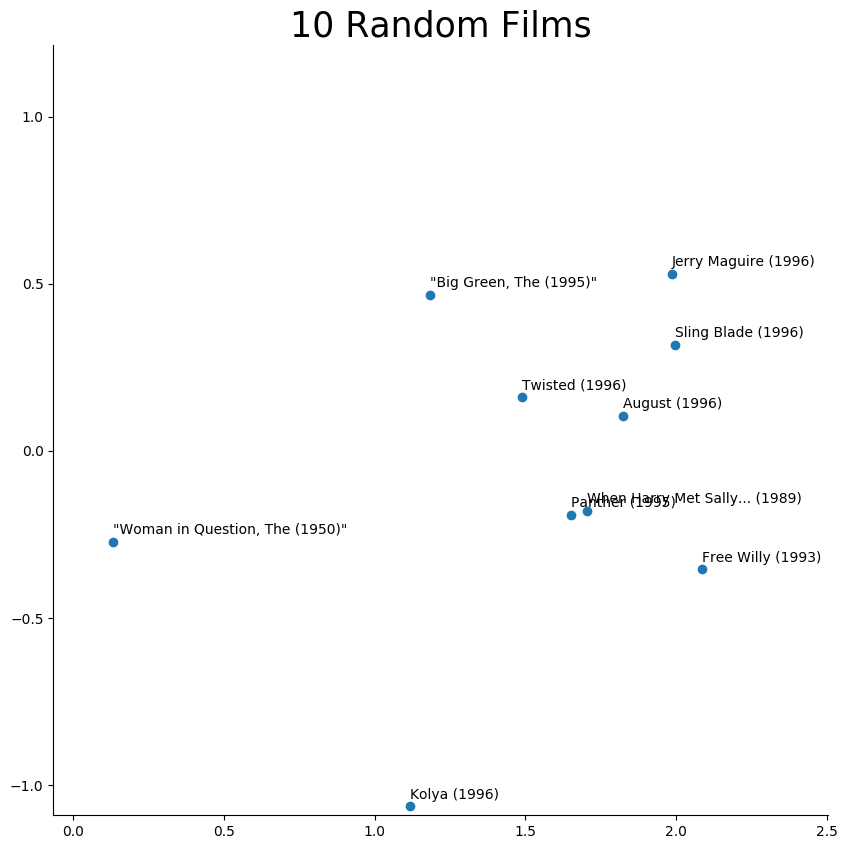
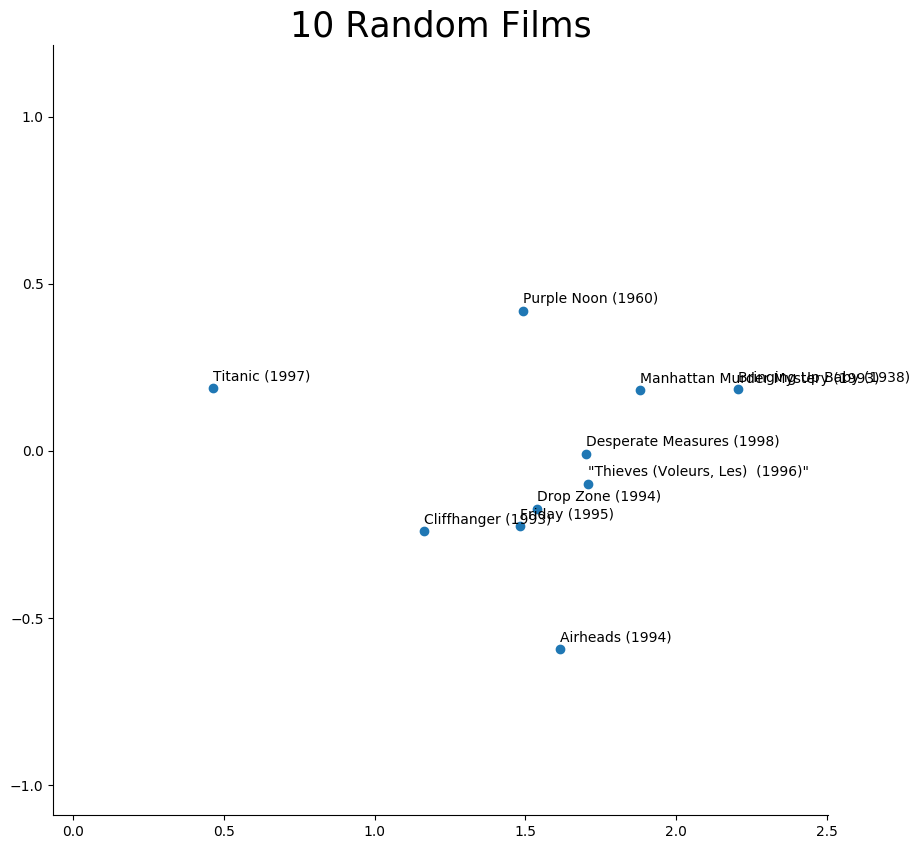
more comparison and 2d visualization

diff --git a/src/svd_visualization.py b/src/svd_visualization.py
@@ -61,6 +61,34 @@ def twoD_viz(title, movie_ids, xy_coords, rect, dpi=100, buf=0.1, annotate=True)
                transparent=True, dpi=dpi)
 
 
+def viz_comparison(title, xy_coords_lst, colors, rect, dpi=100):
+    # create plot dimensions, resolution, and axis ranges
+    plt.clf()
+    fig, ax = plt.subplots(figsize=(10., 10.), dpi=dpi)
+    ax.set_title(title, fontdict={'fontsize': 25})
+    ax.axis(rect)
+
+    # get relative sizes and ranges of drawing window
+    x_mid, y_mid = (rect[0] + rect[1]) / 2., (rect[2] + rect[3]) / 2.
+    x_interval, y_interval = (rect[1] - rect[0]), (rect[3] - rect[2])
+    
+    # draw points. use decimal colors if one group. else, colors are distinct
+    if len(xy_coords_lst) == 1:
+        ax.scatter(xy_coords_lst[0][:, 0], xy_coords_lst[0][:, 1], c=colors[0])
+    else:
+        for i, xy_coords in enumerate(xy_coords_lst):
+            ax.scatter(xy_coords[:, 0], xy_coords[:, 1], color=colors[i])
+    
+    # remove top and right axis-lines for aesthetic purposes
+    ax.spines['top'].set_visible(False)
+    ax.spines['right'].set_visible(False)
+
+    # save plot
+    print('saving...', title)
+    plt.savefig('../graphics/{0}.png'.format(title), bbox_inches='tight', 
+               transparent=True, dpi=dpi)
+
+
 def viz_tasks(V):
     '''
     param: V: 2-d numpy matrix as defined in guide as "V", V.shape = [2, n],
@@ -78,26 +106,53 @@ def viz_tasks(V):
     movie_avg_ratings = []
     for movie, ratings in movie_ratings:
         movie_sizes.append(len(ratings))
-        movie_avg_ratings.append(sum(ratings) / len(ratings))    
-    most_popular = np.array(list(zip(*sorted(zip(movie_sizes, movie_ids))))[1][-10:])
+        movie_avg_ratings.append(sum(ratings) / len(ratings))
+    all_popular = np.array(list(zip(*sorted(zip(movie_sizes, movie_ids)))))
+    most_popular = all_popular[1][-10:]
 
     # 10 best movies
-    best_movies = np.array(list(zip(*sorted(zip(movie_avg_ratings, movie_ids))))[1][-10:])
+    best_movies = np.array(list(zip(*sorted(zip(movie_avg_ratings, movie_ids)))))[1][-10:]
 
-    # first 10 movies from three genres
-    animation, scifi, war = [np.array([x for x, y in genre][:10])
-        for genre in [import_genres(['Animation']), import_genres(['Sci-Fi']), 
-        import_genres(['War'])]]
+    # first 10 movies from three genres. only include over 50 ratings
+    fantasy_all = import_genres(['Fantasy'])
+    scifi_all = import_genres(['Sci-Fi'])
+    war_all = import_genres(['War'])
+    fantasy, scifi, war = [np.array([x for x, y in 
+        sorted(genre, key=lambda x: sum(x[1]) / len(x[1]), reverse=True) if 
+        len(y) >= 50][:10]) for genre in [fantasy_all, scifi_all, war_all]]
+    # regroup models. only include over 50 ratings
+    fantasy_coords = [V[np.array([x for x, y in genre if len(y) >= 50]) - 1] 
+        for genre in [fantasy_all, scifi_all, war_all]]
+
+    # turn popularity values into colors
+    all_popular = all_popular.astype(np.float32)
+    all_popular[0] /= all_popular[0].max()
+    all_popular[0] = all_popular[0] ** .25
+
+    # get rating values above 20 frequency and turn into colors
+    all_best = [x for x in movie_ratings if len(x[1]) >= 20]
+    all_best = [[x[0], sum(x[1]) / len(x[1])] for x in all_best]
+    all_best = sorted(all_best, key=lambda x: x[1], reverse=True)
+    all_best = np.array(all_best).astype(np.float32).transpose()
+    all_best[1] /= all_best[1].max()
+    all_best[1] = all_best[1]
 
     # rectangle bounding all possible xy coordinates in V
     rect = [V[:, 0].min(), V[:, 0].max(), V[:, 1].min(), V[:, 1].max()]
 
     # create and save plots using movie ids and coordinates from V
     twoD_viz('All Movies', movie_ids, V, rect, annotate=False)
+    viz_comparison('Genre Comparison', fantasy_coords, 
+        ['blue', 'green', 'red'], rect)
+    viz_comparison('Popularity Comparison', 
+        [V[all_popular[1].astype(np.uint16) - 1]], [all_popular[0]], rect)
+    viz_comparison('Rating Comparison', 
+        [V[all_best[0].astype(np.uint16) - 1]], [all_best[1]], rect)
+    quit()
     twoD_viz('10 Random Films', rand_movies, V[rand_movies - 1], rect)
     twoD_viz('10 Most Popular Films', most_popular, V[most_popular - 1], rect)
-    twoD_viz('10 Most Rated Films', best_movies, V[best_movies - 1], rect)
-    twoD_viz('Top 10 Genre: Animation Films', animation, V[animation - 1], rect)
+    twoD_viz('10 Top Rated Films', best_movies, V[best_movies - 1], rect)
+    twoD_viz('Top 10 Genre: Fantasy Films', fantasy, V[fantasy - 1], rect)
     twoD_viz('Top 10 Genre: Sci-Fi Films', scifi, V[scifi - 1], rect)
     twoD_viz('Top 10 Genre: War Films', war, V[war - 1], rect)
     print('done!')
